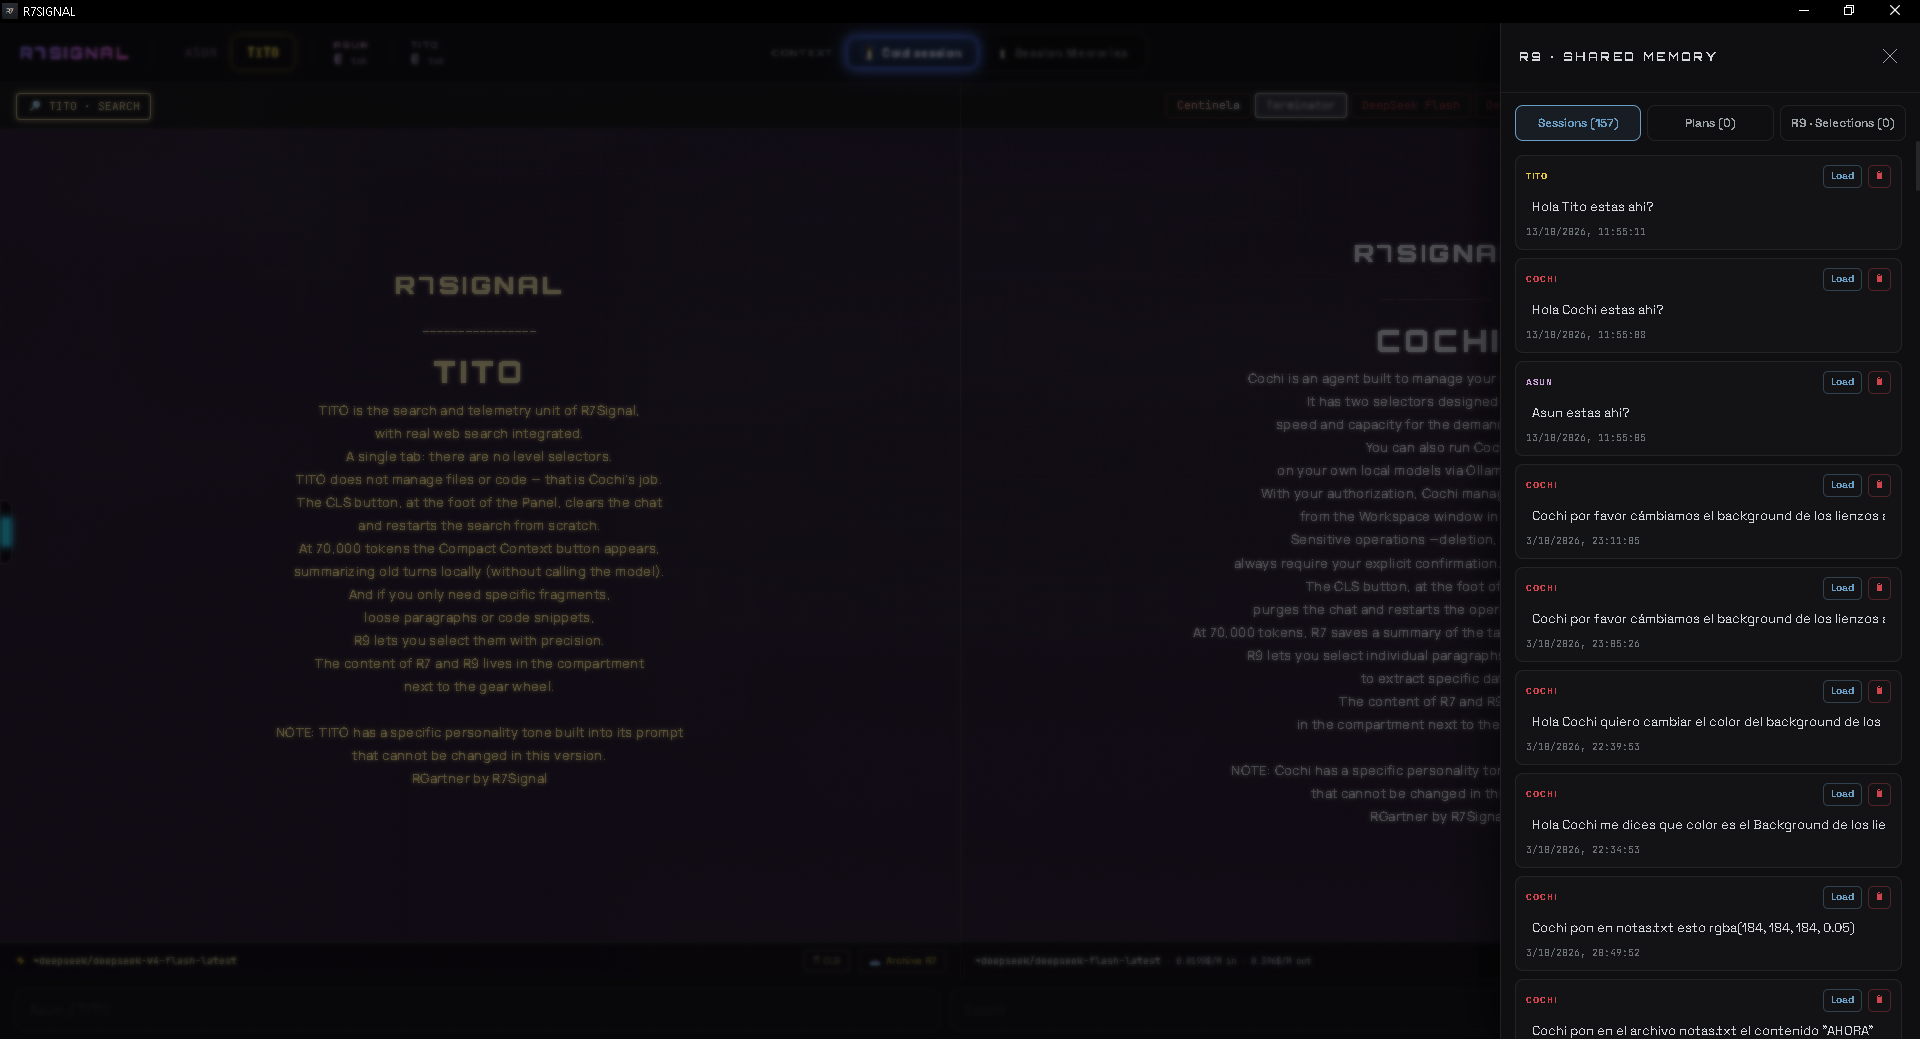
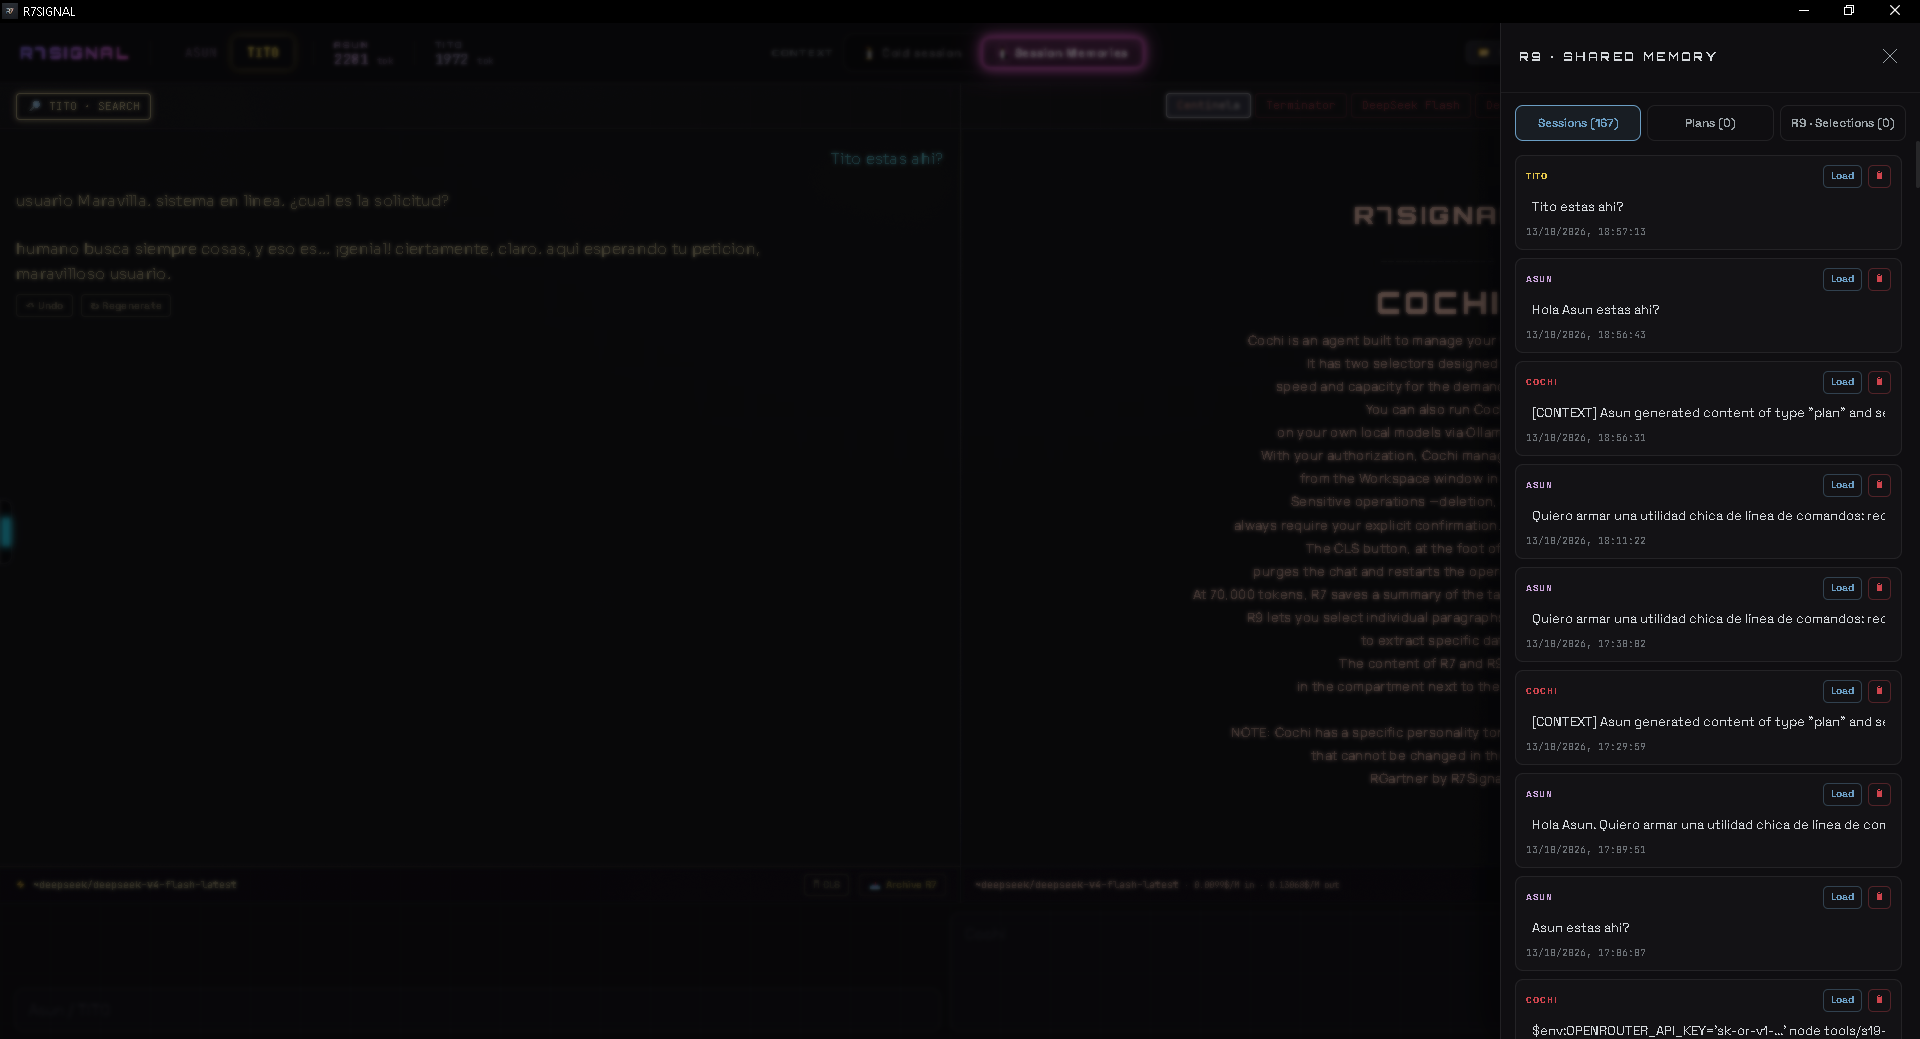
Cochi: S24-quater - lienzo al carbon de la casa y capturas nuevas
Causa raiz: el velo del lienzo de los 3 paneles era un violeta propio —rgba(37, 10, 48, 0.25)—
que no pertenecia a ninguna escala del tema. El color base de la app es el carbon #09080A
(rgb 9, 8, 10): la misma terna en headers (0.5), lista de tareas (0.6), footer de musica (0.7),
status bars (0.8), top bar (0.9) y footer de inputs (0.97).

Decision del autor: el lienzo pasa a rgba(9, 8, 10, 0.6), el alfa de CochiTodoList. Se movieron
los 3 a la vez para que no quede desparejo: CochiDesktop.jsx, R7Desktop.jsx (.tito-chat) y
AsunPanel.jsx.

Capturas: el autor re-disparo las 10 de docs/media (1920x1039, mismos nombres) y no se dieron
por buenas por confianza: se verificaron por pixeles contra HEAD. La brecha R-G que dejaba el
violeta (5,5-6,0) cae a 0,6-0,9 y el azul queda apenas arriba del rojo, que es la firma exacta
de la mezcla nueva. El modelo no tiene vision: mismo metodo que S13-bis-2.

Gate: lint 0/0, build OK, npm test 33/33.

diff --git a/src/components/AsunPanel.jsx b/src/components/AsunPanel.jsx
@@ -643,7 +643,7 @@ function AsunPanel({
       />
 
       {/* ── Contenido ── */}
-      <div ref={chatScrollRef} style={{ flex: 1, overflowY: 'auto', position: 'relative', display: 'flex', flexDirection: 'column', background: 'rgba(37, 10, 48, 0.25)' }}>
+      <div ref={chatScrollRef} style={{ flex: 1, overflowY: 'auto', position: 'relative', display: 'flex', flexDirection: 'column', background: 'rgba(9, 8, 10, 0.6)' }}>
 
         {/* ── IMAGEN: wizard ── */}
         {category === 'imagen' && (

diff --git a/src/components/CochiDesktop.jsx b/src/components/CochiDesktop.jsx
@@ -392,7 +392,7 @@ function CochiDesktop({
         flex: 1, display: 'flex', flexDirection: 'column',
         minHeight: 0, overflow: 'hidden', position: 'relative',
         padding: '12px 14px 10px',
-        background: 'rgba(37, 10, 48, 0.25)',
+        background: 'rgba(9, 8, 10, 0.6)',
       }}>
         <div className="leather-grid" style={{ position: 'absolute', inset: 0, pointerEvents: 'none', opacity: 0.7 }} />
 

diff --git a/src/components/R7Desktop.jsx b/src/components/R7Desktop.jsx
@@ -374,7 +374,7 @@ const handleUsage = useCallback(({ source, inputTokens = 0, outputTokens = 0, bi
           display: flex;
           flex-direction: column;
           gap: 14px;
-          background: rgba(37, 10, 48, 0.25);
+          background: rgba(9, 8, 10, 0.6);
         }
         .tito-watermark {
           display: flex;
